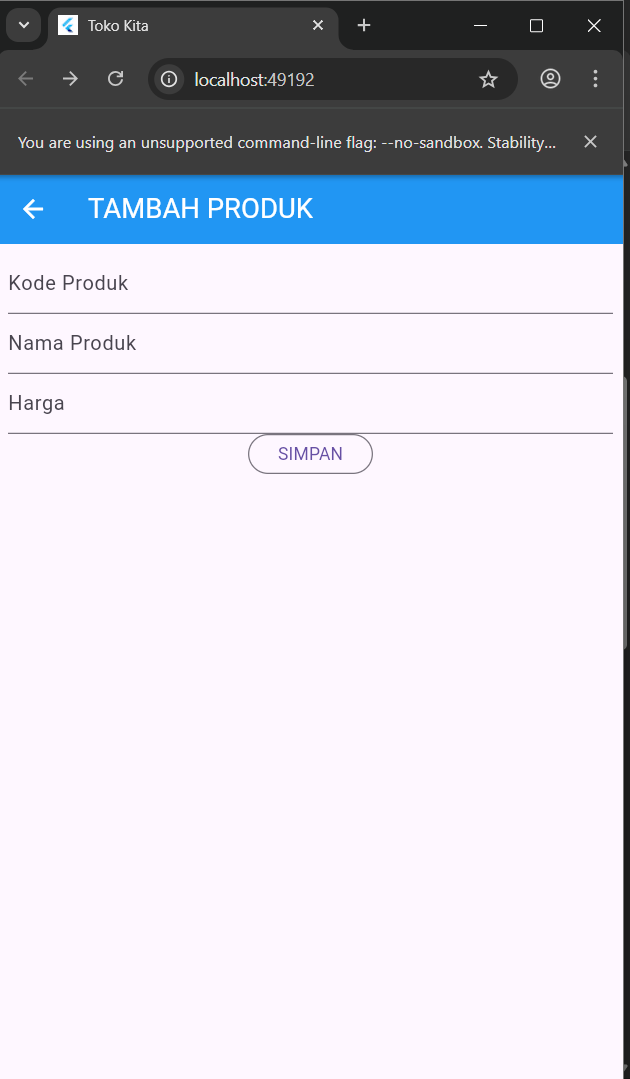
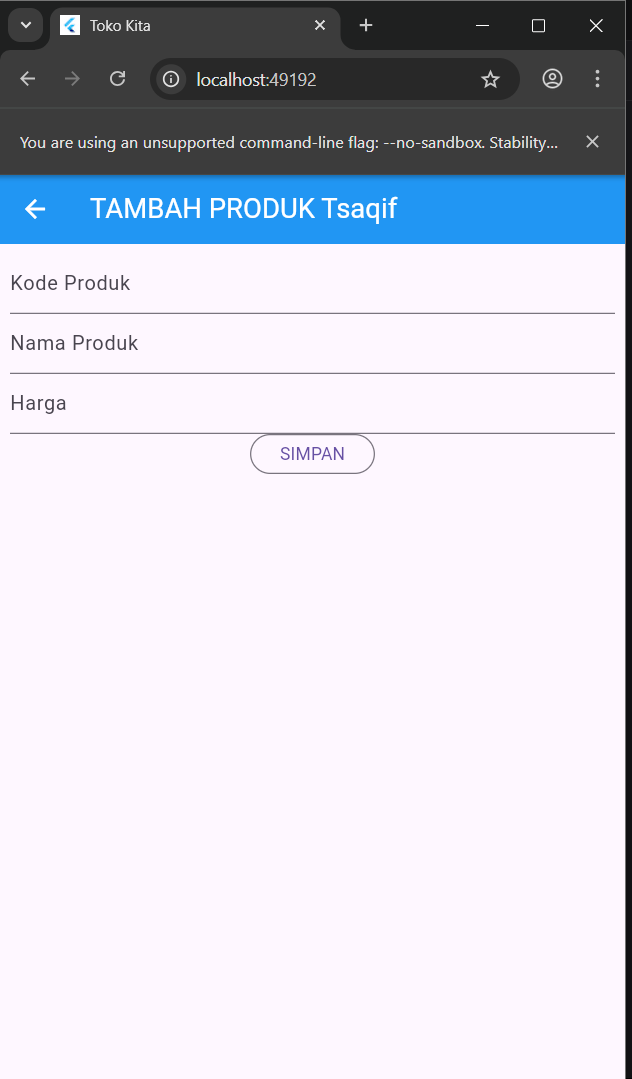
README.md

diff --git a/lib/ui/produk_form.dart b/lib/ui/produk_form.dart
@@ -12,7 +12,7 @@ class ProdukForm extends StatefulWidget {
 class _ProdukFormState extends State<ProdukForm> {
   final _formKey = GlobalKey<FormState>();
   bool _isLoading = false;
-  String judul = "TAMBAH PRODUK";
+  String judul = "TAMBAH PRODUK Tsaqif";
   String tombolSubmit = "SIMPAN";
   final _kodeProdukTextboxController = TextEditingController();
   final _namaProdukTextboxController = TextEditingController();
@@ -27,7 +27,7 @@ class _ProdukFormState extends State<ProdukForm> {
   isUpdate() {
     if (widget.produk != null) {
       setState(() {
-        judul = "UBAH PRODUK";
+        judul = "UBAH PRODUK Tsaqif";
         tombolSubmit = "UBAH";
         _kodeProdukTextboxController.text = widget.produk!.kodeProduk!;
         _namaProdukTextboxController.text = widget.produk!.namaProduk!;
@@ -35,7 +35,7 @@ class _ProdukFormState extends State<ProdukForm> {
             .toString();
       });
     } else {
-      judul = "TAMBAH PRODUK";
+      judul = "TAMBAH PRODUK Tsaqif";
       tombolSubmit = "SIMPAN";
     }
   }

diff --git a/lib/ui/produk_page.dart b/lib/ui/produk_page.dart
@@ -16,7 +16,7 @@ class _ProdukPageState extends State<ProdukPage> {
   Widget build(BuildContext context) {
     return Scaffold(
       appBar: AppBar(
-        title: const Text('List Produk'),
+        title: const Text('List Produk Tsaqif'),
         backgroundColor: Colors.blue,
         foregroundColor: Colors.white,
         actions: [

diff --git a/lib/ui/produk_detail.dart b/lib/ui/produk_detail.dart
@@ -18,7 +18,7 @@ class _ProdukDetailState extends State<ProdukDetail> {
   Widget build(BuildContext context) {
     return Scaffold(
       appBar: AppBar(
-        title: const Text('Detail Produk'),
+        title: const Text('Detail Produk Tsaqif'),
         backgroundColor: Colors.blue,
         foregroundColor: Colors.white,
       ),

diff --git a/lib/ui/registrasi_page.dart b/lib/ui/registrasi_page.dart
@@ -16,7 +16,7 @@ class _RegistrasiPageState extends State<RegistrasiPage> {
   Widget build(BuildContext context) {
     return Scaffold(
       appBar: AppBar(
-        title: const Text("Registrasi"),
+        title: const Text("Registrasi Tsaqif"),
         backgroundColor: Colors.blue,
         foregroundColor: Colors.white,
       ),

diff --git a/lib/ui/login_page.dart b/lib/ui/login_page.dart
@@ -16,7 +16,7 @@ class _LoginPageState extends State<LoginPage> {
   Widget build(BuildContext context) {
     return Scaffold(
       appBar: AppBar(
-        title: const Text('Login'),
+        title: const Text('Login Tsaqif'),
         backgroundColor: Colors.blue,
         foregroundColor: Colors.white,
       ),
